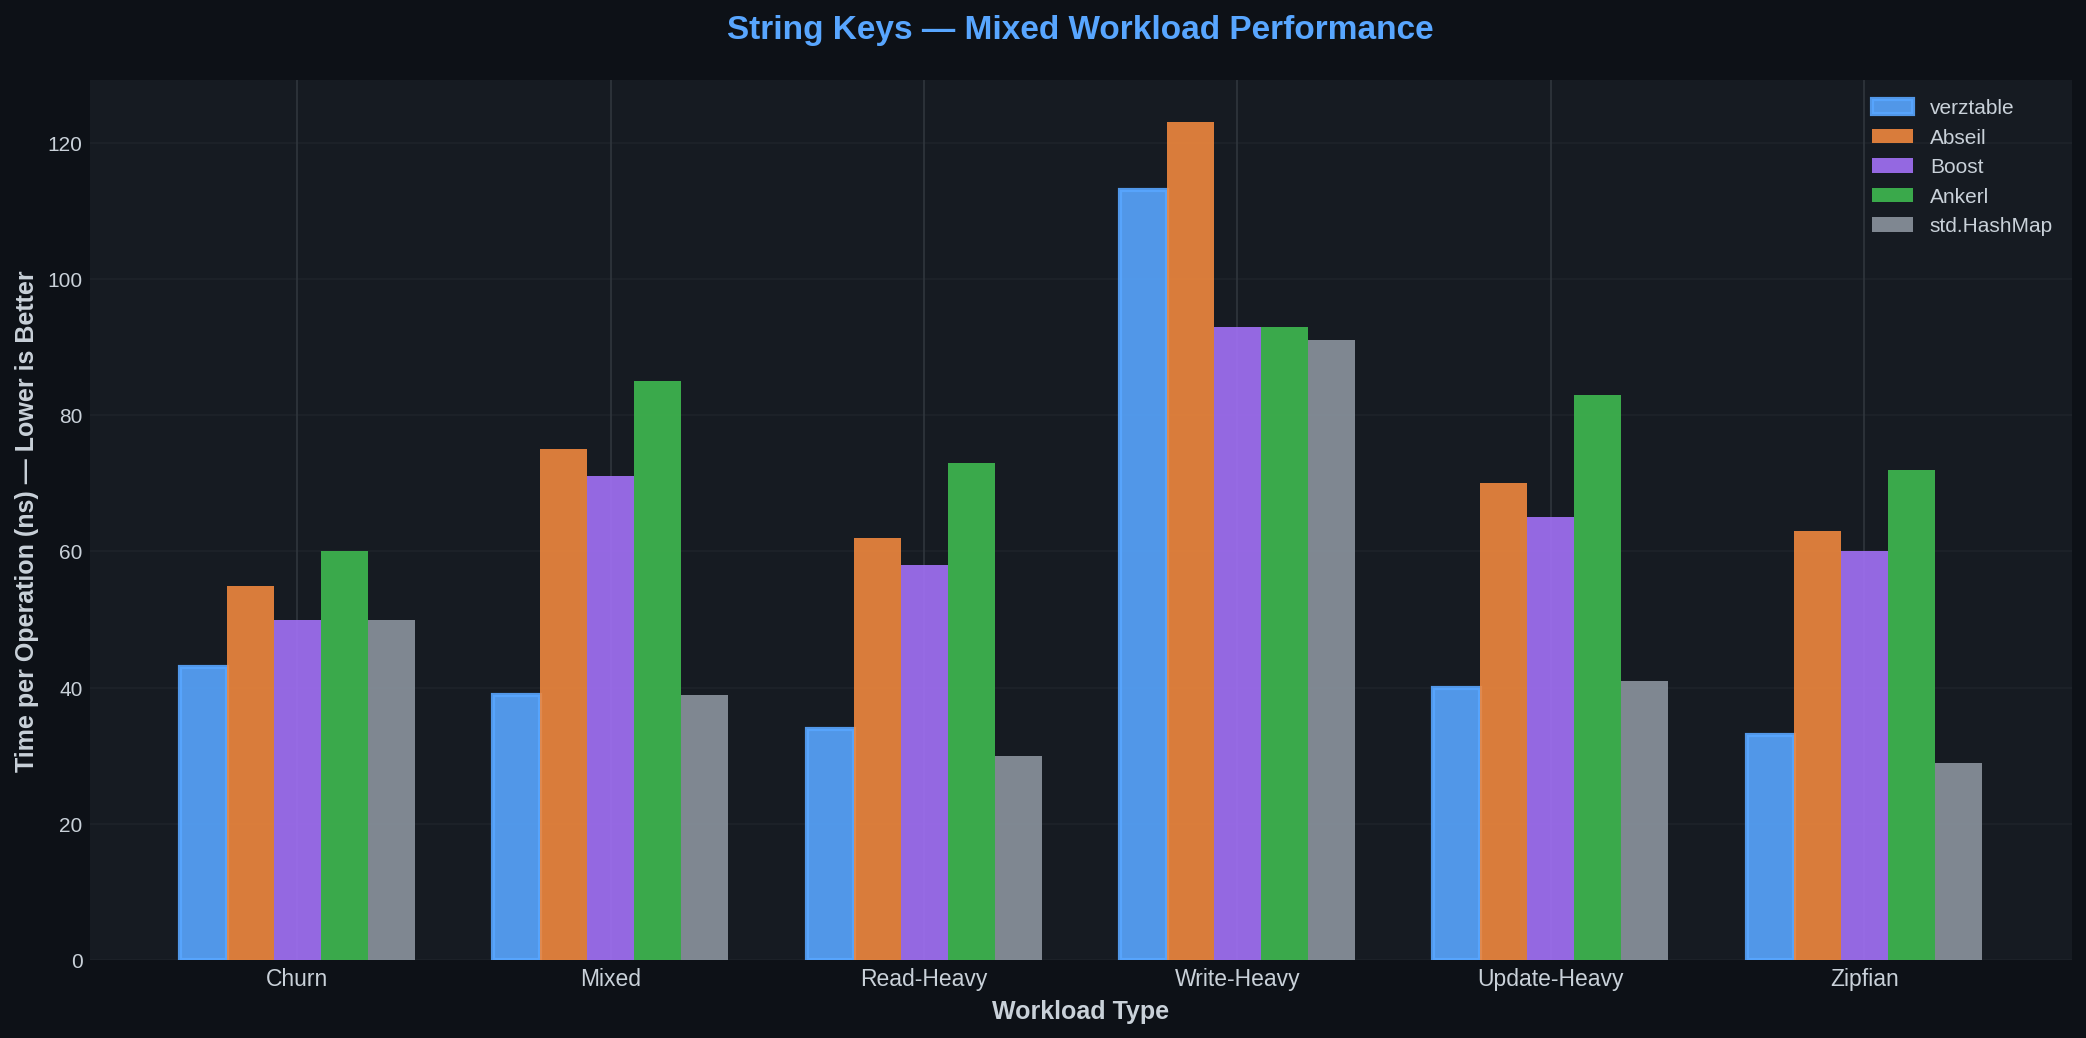
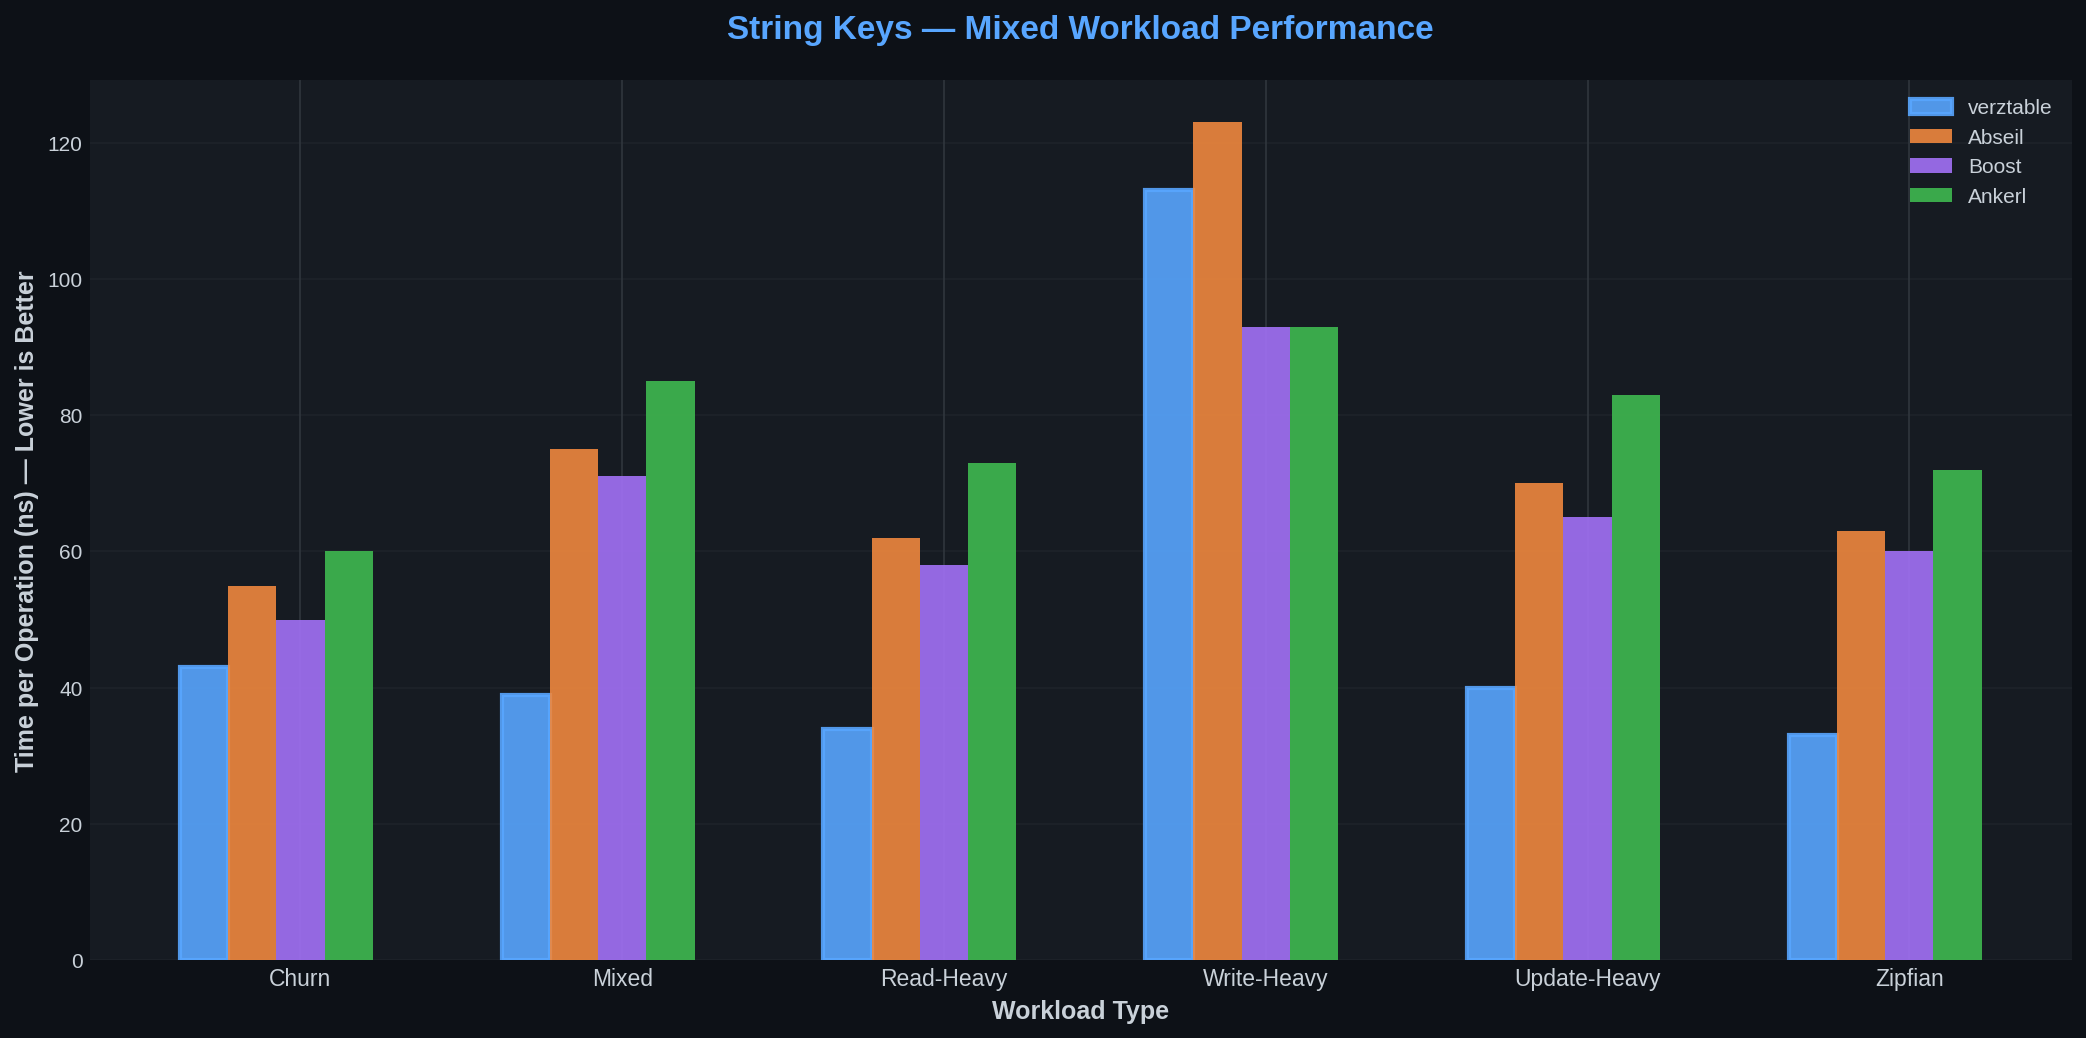
improved README.md and removed unecessary code in the python script

diff --git a/scripts/generate_charts.py b/scripts/generate_charts.py
@@ -33,7 +33,6 @@ STRING_KEYS_MIXED = {
     'Abseil': [55, 75, 62, 123, 70, 63],
     'Boost': [50, 71, 58, 93, 65, 60],
     'Ankerl': [60, 85, 73, 93, 83, 72],
-    'std.HashMap': [50, 39, 30, 91, 41, 29],
 }
 
 U64_KEYS_MIXED = {
@@ -42,7 +41,6 @@ U64_KEYS_MIXED = {
     'Abseil': [25, 13, 5, 30, 12, 12],
     'Boost': [20, 10, 6, 29, 12, 9],
     'Ankerl': [23, 17, 12, 29, 18, 16],
-    'std.HashMap': [29, 15, 10, 28, 16, 11],
 }
 
 U32_KEYS_MIXED = {
@@ -51,14 +49,13 @@ U32_KEYS_MIXED = {
     'Abseil': [24, 12, 5, 27, 13, 11],
     'Boost': [21, 9, 5, 29, 13, 8],
     'Ankerl': [23, 16, 12, 28, 18, 16],
-    'std.HashMap': [28, 15, 10, 27, 17, 10],
 }
 
 
 def create_comparison_chart(data: dict, title: str, filename: str, highlight_winner: bool = True):
     """Create a grouped bar chart comparing hash table implementations."""
     operations = data['operations']
-    implementations = ['verztable', 'Abseil', 'Boost', 'Ankerl', 'std.HashMap']
+    implementations = ['verztable', 'Abseil', 'Boost', 'Ankerl']
     colors = ['#58a6ff', '#f0883e', '#a371f7', '#3fb950', '#8b949e']
     
     x = np.arange(len(operations))
@@ -98,101 +95,6 @@ def create_comparison_chart(data: dict, title: str, filename: str, highlight_win
     plt.close()
     print(f"✓ Created {output_dir / filename}")
 
-
-def create_summary_chart():
-    """Create a simple summary chart showing overall performance."""
-    implementations = ['verztable', 'Abseil', 'Boost', 'Ankerl', 'std.HashMap']
-    
-    # Average across all mixed workloads (from README summary tables)
-    string_avg = [50, 75, 66, 78, 47]  # Approximate averages
-    int_avg = [16, 16, 14, 19, 18]     # Approximate averages
-    
-    x = np.arange(len(implementations))
-    width = 0.35
-    
-    fig, ax = plt.subplots(figsize=(12, 6))
-    
-    bars1 = ax.bar(x - width/2, string_avg, width, label='String Keys', color='#58a6ff', alpha=0.9)
-    bars2 = ax.bar(x + width/2, int_avg, width, label='Integer Keys', color='#3fb950', alpha=0.9)
-    
-    # Highlight verztable
-    bars1[0].set_edgecolor('#ffffff')
-    bars1[0].set_linewidth(2)
-    bars2[0].set_edgecolor('#ffffff')
-    bars2[0].set_linewidth(2)
-    
-    ax.set_xlabel('Implementation', fontsize=12, fontweight='bold')
-    ax.set_ylabel('Avg Time per Op (ns) — Lower is Better', fontsize=12, fontweight='bold')
-    ax.set_title('verztable vs Industry Leaders — Mixed Workloads', 
-                 fontsize=16, fontweight='bold', color='#58a6ff', pad=20)
-    ax.set_xticks(x)
-    ax.set_xticklabels(implementations, fontsize=11)
-    ax.legend(loc='upper right', fontsize=10)
-    ax.yaxis.grid(True, alpha=0.3)
-    ax.set_axisbelow(True)
-    
-    plt.tight_layout()
-    
-    output_dir = Path(__file__).parent.parent / 'docs' / 'images'
-    output_dir.mkdir(parents=True, exist_ok=True)
-    plt.savefig(output_dir / 'summary.png', dpi=150, bbox_inches='tight',
-                facecolor='#0d1117', edgecolor='none')
-    plt.close()
-    print(f"✓ Created {output_dir / 'summary.png'}")
-
-
-def create_twitter_chart():
-    """Create a compact chart optimized for Twitter/X (1200x675 or similar)."""
-    operations = ['Mixed', 'Read-Heavy', 'Churn']
-    implementations = ['verztable', 'Abseil', 'Boost', 'Ankerl']
-    
-    # String key data (most impressive for verztable)
-    data = {
-        'verztable': [39, 34, 43],
-        'Abseil': [75, 62, 55],
-        'Boost': [71, 58, 50],
-        'Ankerl': [85, 73, 60],
-    }
-    
-    colors = ['#58a6ff', '#f0883e', '#a371f7', '#3fb950']
-    
-    fig, ax = plt.subplots(figsize=(10, 5.625))  # 16:9 aspect ratio
-    
-    x = np.arange(len(operations))
-    width = 0.2
-    
-    for i, (impl, color) in enumerate(zip(implementations, colors)):
-        offset = (i - 1.5) * width
-        bars = ax.bar(x + offset, data[impl], width, label=impl, color=color, alpha=0.9)
-        if impl == 'verztable':
-            for bar in bars:
-                bar.set_edgecolor('#58a6ff')
-                bar.set_linewidth(3)
-    
-    ax.set_ylabel('ns/op (lower = faster)', fontsize=14, fontweight='bold')
-    ax.set_title('verztable vs Swiss Tables — String Keys', 
-                 fontsize=18, fontweight='bold', color='#58a6ff', pad=15)
-    ax.set_xticks(x)
-    ax.set_xticklabels(operations, fontsize=14, fontweight='bold')
-    ax.legend(loc='upper right', fontsize=12, framealpha=0.9)
-    ax.yaxis.grid(True, alpha=0.3)
-    ax.set_axisbelow(True)
-    
-    # Add "2x faster" annotation
-    ax.annotate('~2x faster!', xy=(0, 39), xytext=(0.3, 60),
-                fontsize=12, color='#58a6ff', fontweight='bold',
-                arrowprops=dict(arrowstyle='->', color='#58a6ff', lw=2))
-    
-    plt.tight_layout()
-    
-    output_dir = Path(__file__).parent.parent / 'docs' / 'images'
-    output_dir.mkdir(parents=True, exist_ok=True)
-    plt.savefig(output_dir / 'twitter_card.png', dpi=150, bbox_inches='tight',
-                facecolor='#0d1117', edgecolor='none')
-    plt.close()
-    print(f"✓ Created {output_dir / 'twitter_card.png'}")
-
-
 if __name__ == '__main__':
     print("Generating benchmark charts...\n")
     
@@ -213,9 +115,6 @@ if __name__ == '__main__':
         'u32 Integer Keys — Mixed Workload Performance', 
         'u32_keys_mixed.png'
     )
-    
-    create_summary_chart()
-    create_twitter_chart()
     
     print("\n✅ All charts generated in docs/images/")
     print("\nTo use in README, add:")

diff --git a/README.md b/README.md
@@ -15,37 +15,7 @@
 
 ![Benchmark comparison showing verztable performance vs Abseil, Boost, and Ankerl](docs/images/string_keys_mixed.png)
 
-<details>
-<summary><strong>📊 Detailed Benchmark Tables</strong></summary>
-
-string keys — Average across all value-sizes and table-sizes (9 configurations) for all mixed workloads:
-```
-  ┌────────────────┬──────────────┬──────────┬──────────┬──────────┬───────────────────┐
-  │ Operation      │ verztable    │ Abseil   │ Boost    │ Ankerl   │ std.StringHashMap │
-  ├────────────────┼──────────────┼──────────┼──────────┼──────────┼───────────────────┤
-  │ Churn          │        43 ns │    55 ns │    50 ns │    60 ns │             50 ns │
-  │ Mixed          │        39 ns │    75 ns │    71 ns │    85 ns │             39 ns │
-  │ Read-Heavy     │        34 ns │    62 ns │    58 ns │    73 ns │             30 ns │
-  │ Write-Heavy    │       113 ns │   123 ns │    93 ns │    93 ns │             91 ns │
-  │ Update-Heavy   │        40 ns │    70 ns │    65 ns │    83 ns │             41 ns │
-  │ Zipfian        │        33 ns │    63 ns │    60 ns │    72 ns │             29 ns │
-  └────────────────┴──────────────┴──────────┴──────────┴──────────┴───────────────────┘ 
-```
-u64 keys — Average across all value-sizes and table-sizes (9 configurations) for all mixed workloads:
-```
-  ┌────────────────┬──────────────┬──────────┬──────────┬──────────┬─────────────┐
-  │ Operation      │ verztable    │ Abseil   │ Boost    │ Ankerl   │ std.HashMap │
-  ├────────────────┼──────────────┼──────────┼──────────┼──────────┼─────────────┤
-  │ Churn          │        17 ns │    25 ns │    20 ns │    23 ns │       29 ns │
-  │ Mixed          │        12 ns │    13 ns │    10 ns │    17 ns │       15 ns │
-  │ Read-Heavy     │         7 ns │     5 ns │     6 ns │    12 ns │       10 ns │
-  │ Write-Heavy    │        35 ns │    30 ns │    29 ns │    29 ns │       28 ns │
-  │ Update-Heavy   │        14 ns │    12 ns │    12 ns │    18 ns │       16 ns │
-  │ Zipfian        │         9 ns │    12 ns │     9 ns │    16 ns │       11 ns │
-  └────────────────┴──────────────┴──────────┴──────────┴──────────┴─────────────┘ 
-```
-
-</details>
+![Benchmark comparison showing verztable performance vs Abseil, Boost, and Ankerl](docs/images/u32_keys_mixed.png)
 
 Run `zig build benchmark` to reproduce a comprehensive benchmark, or see [BENCHMARKS.md](BENCHMARKS.md).
 
